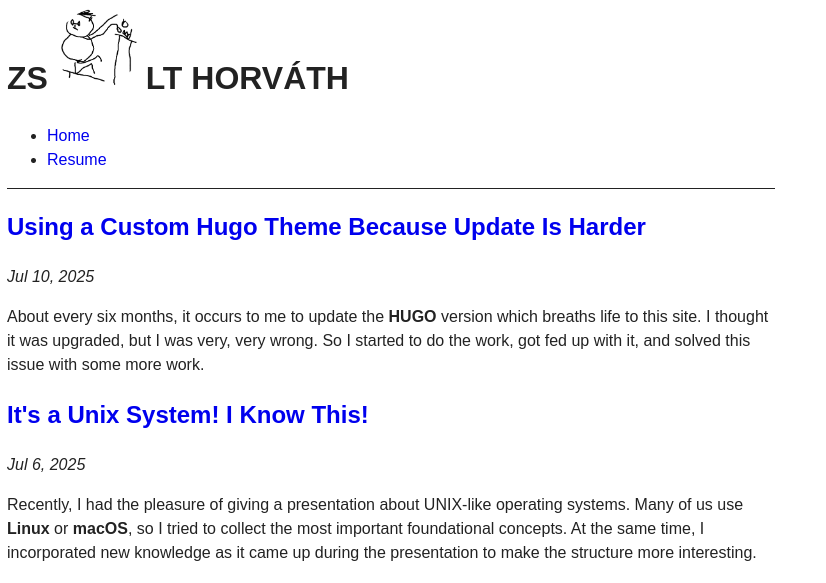
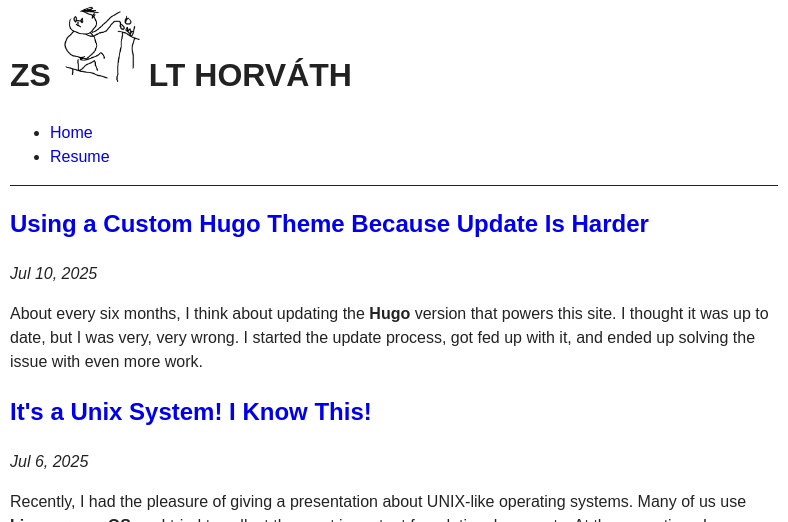
feat: grammar

diff --git a/content/posts/using-a-custom-hugo-theme-because-update-is-harder/index.md b/content/posts/using-a-custom-hugo-theme-because-update-is-harder/index.md
@@ -4,48 +4,48 @@ draft = true
 title = 'Using a Custom Hugo Theme Because Update Is Harder'
 +++
 
-About every six months, it occurs to me to update the **HUGO** version which breaths life to this site. I thought it was upgraded, but I was very, very wrong. So I started to do the work, got fed up with it, and solved this issue with some more work.
+About every six months, I think about updating the **Hugo** version that powers this site. I thought it was up to date, but I was very, very wrong. I started the update process, got fed up with it, and ended up solving the issue with even more work.
 
 <!--more-->
 
 ## Local Environment
 
-Until now I used a docker image from dockerhub for running **HUGO** locally, I checked if there is a new version, and updated it. The deployment is handled by **Netlify** for that I define the **HUGO** version in a config file. All works all nice.
+Until now, I used a Docker image from Docker Hub to run **Hugo** locally. I would check if there was a new version and update it. Deployment is handled by **Netlify**, where I specify the **Hugo** version in a config file. Everything worked nicely.
 
-But a couple of days ago I realized that the latest tag of the docker image was older then a year. So I checked out what should be really the current **HUGO** version and I was lagging behind.
+But a couple of days ago, I realized that the latest tag of the Docker image was more than a year old. So I checked what the current **Hugo** version should be, and I was lagging behind.
 
 ## Let's Update
 
-This should not be a problem, I searched for a new docker image with new **HUGO** version. Spin it up locally, and of course it does not work.
+This should not have been a problem. I searched for a new Docker image with a new **Hugo** version, spun it up locally, and of course it did not work.
 
-I was using a theme (a really nice one) which was made by someone else, it was living in a git submodule ...don't worry this is normal. I also had some layout changes by me, but that should be alright, handling that is a feature of **HUGO**.
+I was using a theme (a really nice one) that was made by someone else, and it lived in a git submodule ...don't worry, this is normal. I had also made some layout changes myself, but that should be fine, handling that is a feature of **Hugo**.
 
-So I updated the submodule as well, and template rendering still fails. I fix my custom layouts because they were offenders for sure, aaand it still does not work. And after having the best twenty minutes of my life, swimming in github issues, I said:
+So I updated the submodule as well, but template rendering still failed. I fixed my custom layouts, since they were likely offenders, aaand it still didn't work. After having the best twenty minutes of my life swimming in GitHub issues, I said:
 
 ![this cannot continue](nier-automata-this-cannout-continue.gif)
 
 ## Time for a Change
 
-I decided I will get rid of these pesky dependencies. They will always break! They are the apocalyptic horsemen of modern software development!!! Why cannot be everything **one binary** running on **DOS**!?
+I decided I would get rid of these pesky dependencies. They will always break! They are the apocalyptic horsemen of modern software development!!! Why can't everything be **one binary** running on **DOS**!?
 
-I had a lot ideas what to do:
+I had a lot of ideas about what to do:
 
 - Create a static site by hand
-- Create my own static site generator with **go**
-- Create my own static site generator with and server with **shell**
+- Write my own static site generator in **Go**
+- Write my own static site generator and server in **shell**
 - Try out **11ty**
-- Create a new **HUGO** site with a custom theme
+- Create a new **Hugo** site with a custom theme
 
-For not my fun but my luck, I started with the last option. This was quite a good idea because, I do like **HUGO** and it was much easier than I anticipated.
+Fortunately (for my sanity, and sadly for my fun), I went with the last option. This was a good idea because I do like **Hugo**, and it was much easier than I anticipated.
 
 ```shell
 hugo new site homepage
 hugo new theme hometheme
 ```
 
-And it's done, this produces a functional site. I had to do some configuration on the page and theme and migrate the content (which means copying files in that case) but that's all, one _dependency_ gone.
+And just like that, I had a functional site. I had to do some configuration on the page and theme, and migrate the content (which just meant copying files in this case), but that's all, one _dependency_ gone.
 
-Now it would be nice to run it, so time for get rid of my other _dependency_ and create my own `Dockerfile`.
+Now it would be nice to run it, so it was time to get rid of my other _dependency_ and create my own `Dockerfile`.
 
 ```Dockerfile
 FROM debian:bookworm
@@ -62,20 +62,21 @@ EXPOSE 1313
 CMD ["hugo", "server", "--buildDrafts", "--buildFuture", "--bind", "0.0.0.0"]
 ```
 
-You can judge me, but this is basically how you install **HUGO** by the documentation. Added some commands in a **Makefile** for easier management, and it's done. Next time I need to update, I only need to change this image and the deployment configuration.
+You can judge me, but this is basically how you install **Hugo** according to the documentation. I added some commands in a **Makefile** for easier management, and that's it. Next time I need to update, I just have to change this image and the deployment configuration.
 
 ## Theme
 
-I tried to introduce only little changes to the default theme, I made some arrangements in the header and footer, and added pagination, nothing too complicated. I expect easier compatibility issue-resolution in the future because of it.
+I tried to make only a few small changes to the default theme. I adjusted the header and footer and added pagination, nothing too complicated. I expect that will make compatibility issues easier to resolve in the future.
 
-But the default styling of the css looked like this:
+But the default CSS styling looked like this:
 
 ![default theme](default.png)
 
-Honestly, I don't think this is bad at all, but I have a soft spot for classless **css**, so I wanted check out some ready to use ones. Now you can scream at me that it's another _dependency_, but in reality it will be one file frozen in time, never updated. And the last time I did work with **css** `flexbox` was a hot new thing...
+Honestly, I don't think this is bad at all, but I have a soft spot for classless **CSS**, so I wanted to check out some ready-to-use ones. You might scream at me that it's another _dependency_, but in reality, it will be one file, frozen in time, never updated. The last time I did much **CSS** work, `flexbox` was a hot new thing, and I'm not going back...
 
-So there are three classless css stuff (i don't want to call them a framework), I really like, and it's not a trade secret: [Pico](https://picocss.com/), [Simple.css](https://simplecss.org/) and [sakura](https://oxal.org/projects/sakura/).
+There are three classless **CSS** "things" (I don't want to call them frameworks) that I really like, and it's not a trade secret: [Pico](https://picocss.com/), [Simple.css](https://simplecss.org/), and [Sakura](https://oxal.org/projects/sakura/).
 
-The first one is really well rounded, but I liked the second one more, but the third one is the most elegant, so I used the second one with the third ones colors. I hope you could follow.
+The first one is really well-rounded, but I liked the second one more, and the third is the most elegant. So I used the second one with the colors of the third.
 
+I hope you were able to follow.
 
